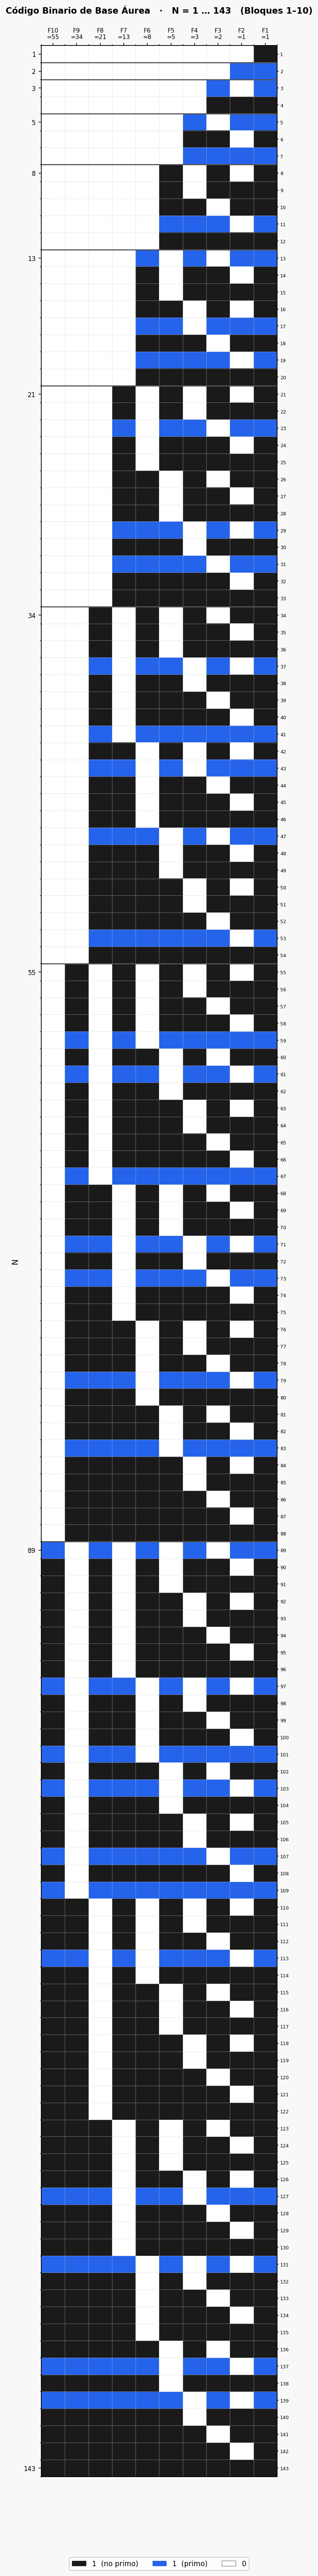
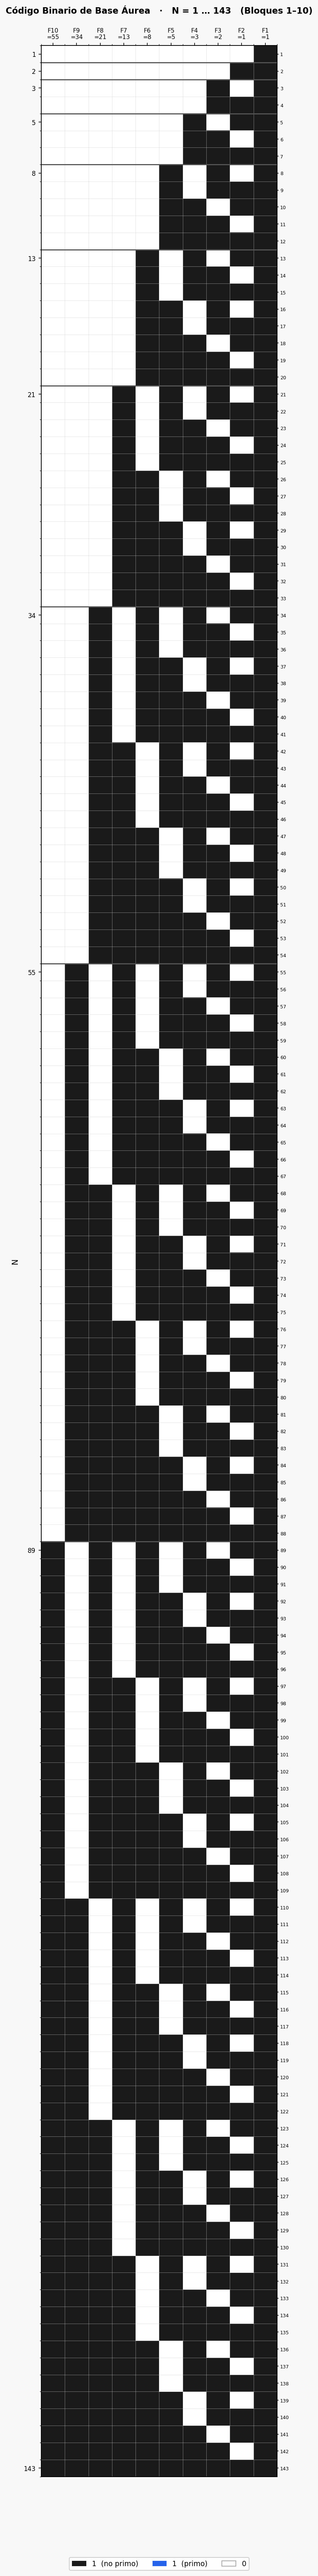
la piramide de kev 2

diff --git a/plot_3d.py b/plot_3d.py
@@ -51,8 +51,12 @@ def block_start_col(block_num: int, max_bits: int) -> int:
 
 # ── Scene builders ────────────────────────────────────────────────────────────
 
-def build_cell_list(num_blocks: int):
-    """Compute (col, y, z, color, hover) for every visible bit cell."""
+def build_cell_list(num_blocks: int, clip: bool = True):
+    """Compute (col, y, z, color, hover) for every visible bit cell.
+
+    clip=True  — hides cells already occupied by the block below (original behaviour).
+    clip=False — renders every cell, letting overlapping blocks show through.
+    """
     max_bits  = num_blocks
     cell_list = []
     label_pts = []  # [(x, y, z), label_str]
@@ -73,8 +77,7 @@ def build_cell_list(num_blocks: int):
             label_col = None
 
             for col_idx in range(start_col, max_bits):
-                # Skip cells already occupied by the block below
-                if block_num > 1 and col_idx >= prev_start_col and row_idx < len(prev_entries):
+                if clip and block_num > 1 and col_idx >= prev_start_col and row_idx < len(prev_entries):
                     continue
                 color = block_color if bits[col_idx] == "1" else EMPTY_C
                 cell_list.append((col_idx, y_pos, row_idx, color, hover))
@@ -139,7 +142,7 @@ def build_scene_layout(num_blocks: int) -> dict:
                 ticktext=[f"B{b}" for b in range(1, num_blocks + 1)],
                 tickfont=dict(size=8),
             ),
-            zaxis=dict(title="Posición en bloque", tickfont=dict(size=8)),
+            zaxis=dict(title="Posición en bloque", tickfont=dict(size=8), autorange="reversed"),
             camera=DEFAULT_CAMERA,
             bgcolor="#F0F0F0",
             aspectmode="manual",
@@ -148,8 +151,8 @@ def build_scene_layout(num_blocks: int) -> dict:
     )
 
 
-def build_figures(num_blocks: int) -> tuple[dict, dict]:
-    cell_list, label_pts, prime_pts = build_cell_list(num_blocks)
+def build_figures(num_blocks: int, clip: bool = True) -> tuple[dict, dict]:
+    cell_list, label_pts, prime_pts = build_cell_list(num_blocks, clip=clip)
     prime_lines, labels = build_overlay_traces(num_blocks, label_pts, prime_pts)
     layout = build_scene_layout(num_blocks)
 
@@ -166,20 +169,21 @@ def build_figures(num_blocks: int) -> tuple[dict, dict]:
 
 # ── Figure cache ──────────────────────────────────────────────────────────────
 
-_fig_cache: dict[int, tuple] = {}
-_fig_cache[10] = build_figures(10)
+_fig_cache: dict[tuple, tuple] = {}
+_fig_cache[(10, True)] = build_figures(10, clip=True)
 
 
-def get_figures(num_blocks: int) -> tuple[dict, dict]:
-    if num_blocks not in _fig_cache:
-        _fig_cache[num_blocks] = build_figures(num_blocks)
-    return _fig_cache[num_blocks]
+def get_figures(num_blocks: int, clip: bool = True) -> tuple[dict, dict]:
+    key = (num_blocks, clip)
+    if key not in _fig_cache:
+        _fig_cache[key] = build_figures(num_blocks, clip=clip)
+    return _fig_cache[key]
 
 
 # ── Dash app + callbacks ──────────────────────────────────────────────────────
 
 app = dash.Dash(__name__)
-app.layout = create_layout(_fig_cache[10][0])
+app.layout = create_layout(_fig_cache[(10, True)][0])
 
 
 @app.callback(
@@ -188,12 +192,24 @@ app.layout = create_layout(_fig_cache[10][0])
     Output("slider-label", "children"),
     Input("toggle-btn",    "n_clicks"),
     Input("block-slider",  "value"),
+    Input("clip-store",    "data"),
 )
-def update_view(n_clicks, num_blocks):
-    sphere_fig, cube_fig = get_figures(num_blocks)
+def update_view(n_clicks, num_blocks, clip):
+    sphere_fig, cube_fig = get_figures(num_blocks, clip=clip)
     if n_clicks % 2 == 0:
         return sphere_fig, "⬡  Switch to Cubes",   f"Bloques: {num_blocks}"
     return     cube_fig,  "⬜  Switch to Spheres",  f"Bloques: {num_blocks}"
+
+
[email redacted](
+    Output("clip-store",  "data"),
+    Output("clip-btn",    "children"),
+    Input("clip-btn",     "n_clicks"),
+)
+def toggle_clip(n_clicks):
+    clipping = (n_clicks or 0) % 2 == 0
+    label = "◼  Ocultar overlap" if clipping else "◻  Mostrar overlap"
+    return clipping, label
 
 
 @app.callback(